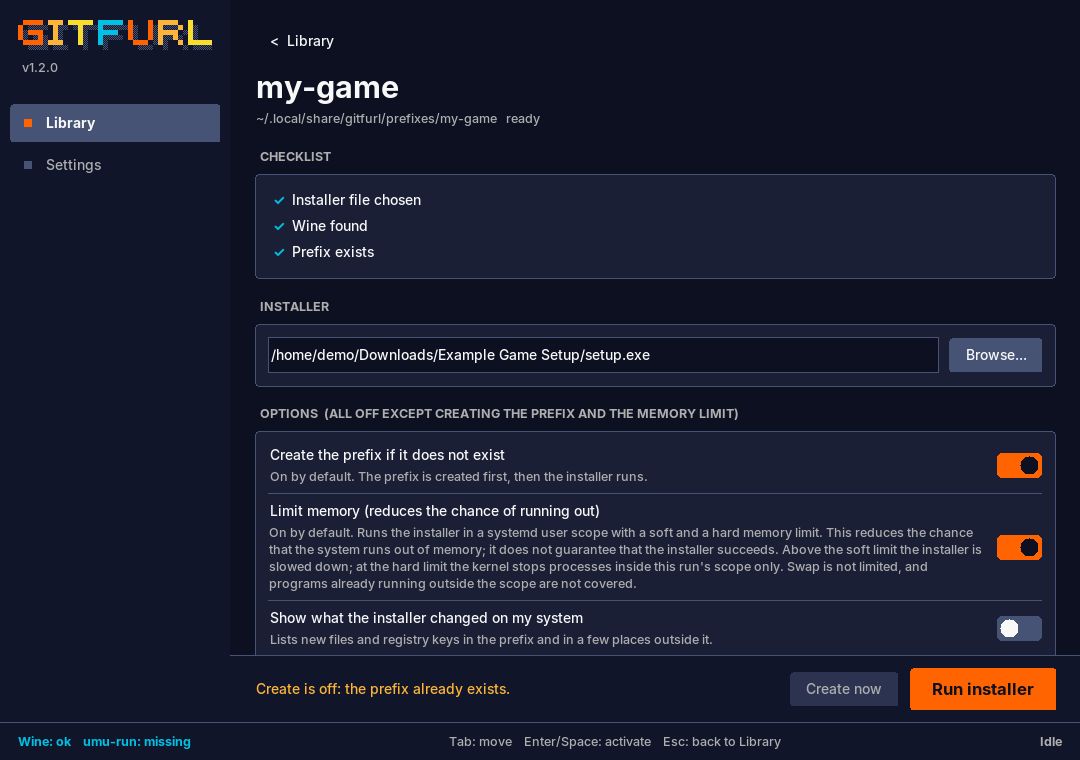
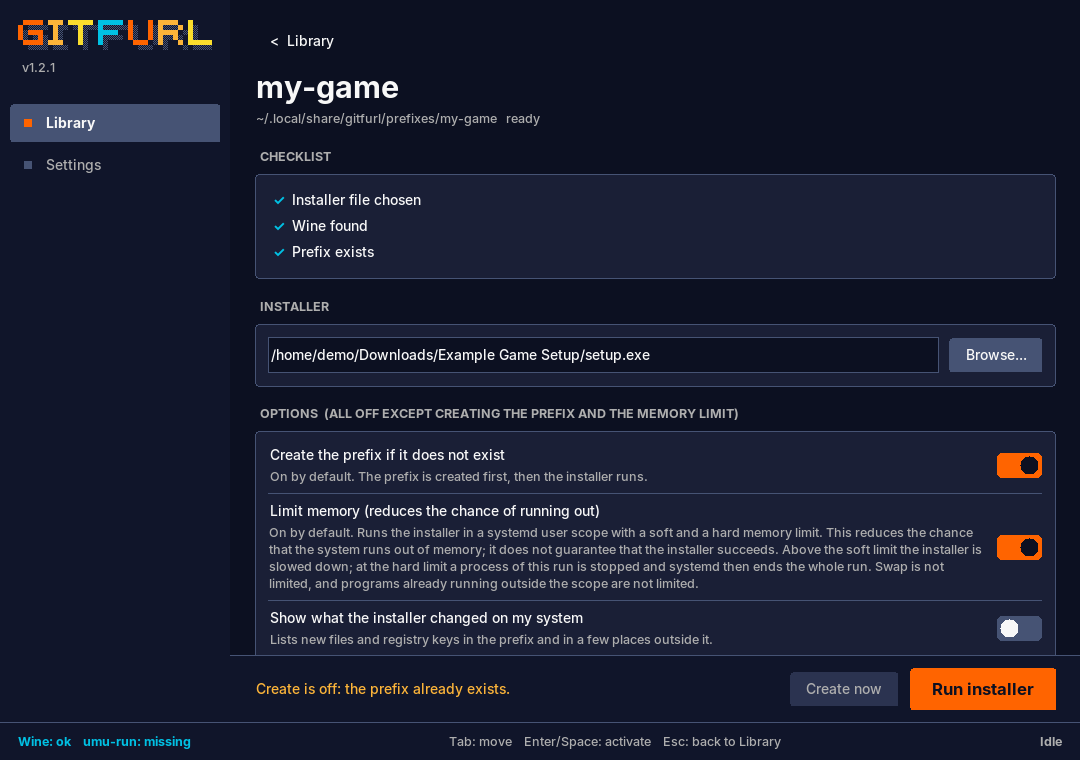
Release 1.2.1 (#10)

Changed region(s): [[0.2444, 0.7263, 0.8861, 0.7868]]

diff --git a/src/gitfurl/__init__.py b/src/gitfurl/__init__.py
@@ -1,3 +1,3 @@
 """Gitfurl: helper for running user-supplied Windows installers on Linux."""
 
-__version__ = "1.2.0"
+__version__ = "1.2.1"

diff --git a/README.md b/README.md
@@ -21,7 +21,7 @@
 
 gitfurl is a graphical app (with an optional command line) for running a Windows installer on Linux through Wine. **You supply the installer.** Gitfurl does not find, download or include any.
 
-> **Status: version 1.2.0, released on 2026-11-17 (the first release, 1.0.0, was on 2026-11-16).** It means the app, the command line and the safety checks are complete for the scope below. It does **not** mean any particular installer works: compatibility is unverified. Installers have been *started* in a sandbox, but a complete install has not been tested, and the code has not been audited. Details under [Status](#status).
+> **Status: version 1.2.1, released on 2026-11-17 (the first release, 1.0.0, was on 2026-11-16).** It means the app, the command line and the safety checks are complete for the scope below. It does **not** mean any particular installer works: compatibility is unverified. Installers have been *started* in a sandbox, but a complete install has not been tested, and the code has not been audited. Details under [Status](#status).
 
 ![The Library page: a list of Wine prefixes](docs/screenshot.png)
 
@@ -46,7 +46,7 @@ Running a Windows installer under Wine by hand works, until it does not. These a
 - Wine prefixes are not sandboxes. Gitfurl makes the run visible and tidy; it does not make an untrusted installer safe.
 
 ## Screenshots
-These were made with gitfurl 1.2.0 under a virtual display, in a demo home folder (`/home/demo`) with empty example prefixes. No real installer and no real Wine were run: a small stand-in script took Wine's place.
+These were made with gitfurl 1.2.1 under a virtual display, in a demo home folder (`/home/demo`) with empty example prefixes. No real installer and no real Wine were run: a small stand-in script took Wine's place.
 
 ![A prefix's page with an installer chosen: the checklist, the installer field and the options, with the memory limit on](docs/screenshot-plan.png)
 
@@ -99,7 +99,7 @@ As of 2026-11-16, on Linux x86_64, Wine 11.0, tested headless (no GPU, a virtual
 - Gitfurl refuses to create prefixes or run installers as root.
 - The memory limit is on by default. Without a user systemd manager, or without the memory controller delegated to it, runs are refused until you turn the limit off (`--no-memory-limit`, or the option in the window). Swap is not limited.
 - Proton needs a Proton folder you already have, and umu-run downloads its own runtime on first use if it is missing.
-- The single-file Linux build in the 1.0.0 release starts and runs `cli` here, and its window opens in a Debian image with Tk and fonts. The 1.1.0 and 1.2.0 builds are made by the same workflow and have not been checked separately. It is **not proven on every desktop**: it expects the system's standard X11 libraries and at least one font. On NixOS it stops with `libxcb.so.1: cannot open shared object file` unless the libraries are provided (for example with nix-ld) or you run from source with `nix develop`. See the [roadmap](ROADMAP.md).
+- The single-file Linux build in the 1.0.0 release starts and runs `cli` here, and its window opens in a Debian image with Tk and fonts. The 1.1.0, 1.2.0 and 1.2.1 builds are made by the same workflow and have not been checked separately. It is **not proven on every desktop**: it expects the system's standard X11 libraries and at least one font. On NixOS it stops with `libxcb.so.1: cannot open shared object file` unless the libraries are provided (for example with nix-ld) or you run from source with `nix develop`. See the [roadmap](ROADMAP.md).
 
 ## What goes online
 Nothing, from gitfurl itself. (Inherited `WINE*` variables from your shell are not passed to the installer, so the plan shows everything that is set.) It makes no network requests, sends no telemetry and uploads nothing. Two things you start yourself can use the network: umu-run downloading its runtime on first use, and anything the installer does. The [sandbox wrapper](docs/development.md#running-an-installer-in-a-sandbox) turns the network off for the installer.

diff --git a/docs/testing.md b/docs/testing.md
@@ -89,7 +89,7 @@ Each failed test unit was then cleared with `systemctl --user reset-failed <that
 
 ## The single-file build (release workflow)
 `release.yml` builds one Linux program with PyInstaller. Checked on 2026-11-16 by running the workflow by hand (it builds and uploads only):
-- The checksum file matches. `cli --version` prints the release version (1.0.0 for that build) and `cli doctor` runs. The 1.1.0 and 1.2.0 builds have not been checked this way yet.
+- The checksum file matches. `cli --version` prints the release version (1.0.0 for that build) and `cli doctor` runs. The 1.1.0, 1.2.0 and 1.2.1 builds have not been checked this way yet.
 - The window opens (stays open 6 s under a virtual display) in CI and in a Debian image that has Tk and fonts.
 - On a bare Debian with no fonts it loads its bundled Tk but cannot create a window; the app now prints that reason.
 - On NixOS it stops with `libxcb.so.1: cannot open shared object file`, because the build expects the system's standard X11 libraries.

diff --git a/CHANGELOG.md b/CHANGELOG.md
@@ -4,6 +4,9 @@ All notable changes are documented here. The format follows [Keep a Changelog](h
 
 ## [Unreleased]
 
+## [1.2.1] - 2026-11-17
+A fix to the memory limit's end text and wording. Checked against systemd 262 with test programs and a stand-in for Wine; still never run with Wine, Proton or a real installer.
+
 ### Fixed
 - Memory limit: after a normal run the end text no longer says that an out-of-memory stop "could not be checked". systemd removes a scope that ended normally before gitfurl can read it; a scope ended by the out-of-memory killer stays as failed. gitfurl now passes `OOMPolicy=stop` explicitly and, when the scope is gone and was not seen failed, says that no out-of-memory stop was recorded, and why. Checked against systemd 262 with test programs (no Wine, no installer).
 - Memory limit wording: at the hard limit the kernel stops a process of the run and systemd then ends the whole run (it was described as stopping processes only).

diff --git a/SECURITY.md b/SECURITY.md
@@ -21,7 +21,7 @@ To report a vulnerability, open a private security advisory on the repository. P
 **Cleanup.** The option to delete the original installer is off by default and needs an installer exit status of 0. An exit status of 0 does not prove the install was complete, so keep the files until you have checked the result.
 
 ## Status and threat model
-Gitfurl 1.2.0 is an early release. Compatibility is unverified and the code has not been audited. Only the latest commit is supported.
+Gitfurl 1.2.1 is an early release. Compatibility is unverified and the code has not been audited. Only the latest commit is supported.
 
 What it tries to prevent: a run or a deletion you did not approve, a run in your main Wine prefix, silent network use by gitfurl itself, and a log or report that leaks your environment.
 

diff --git a/docs/scope.md b/docs/scope.md
@@ -1,6 +1,6 @@
 # Scope
 
-Status: early release (1.2.0). Compatibility is unverified. Planned support is not verified support.
+Status: early release (1.2.1). Compatibility is unverified. Planned support is not verified support.
 
 ## Problem
 Some Windows installers are hard to run on Linux. Gitfurl helps a user run an installer they already have, in a dedicated Wine prefix, with settings they can inspect, and keeps local logs.
